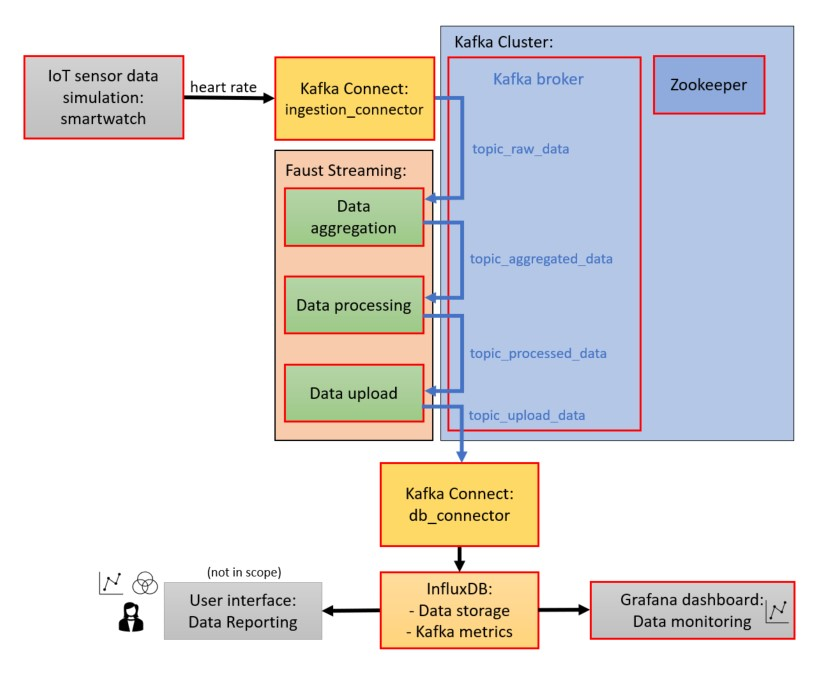
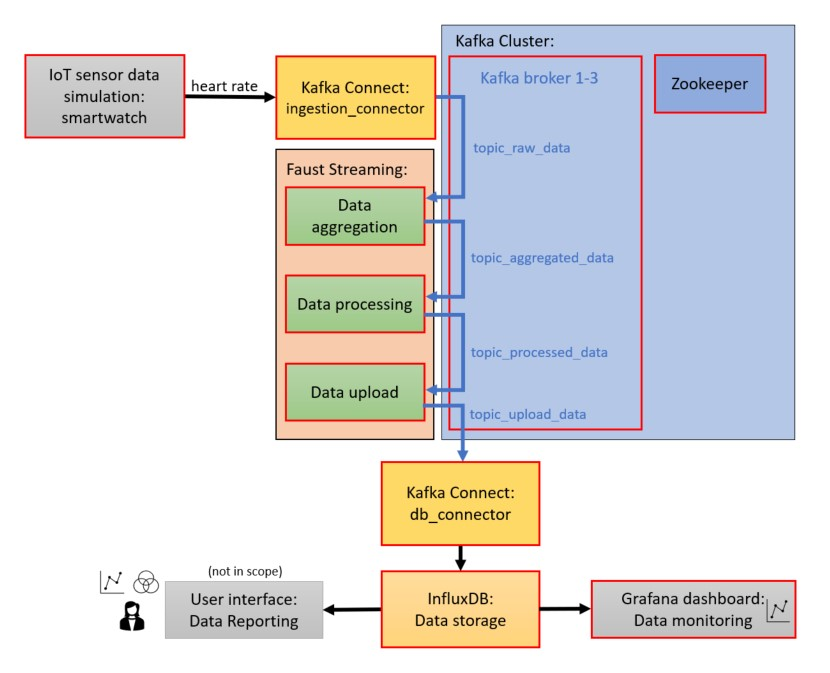
updated Readme and comments

Changed region(s): [[0.0, 0.0312, 0.9639, 0.9673]]

diff --git a/README.md b/README.md
@@ -35,21 +35,21 @@ To get the backend application running on a local machine, the following steps a
    ```
    docker-compose up -d --build
    ```
-    Note: After installing the packages it can take up to 90 seconds until cluster components are finally bootet and synchronised.
+    Note: After installing the packages it can take up to 90 seconds until cluster components are completely bootet and synchronised.
 
 
 # Project Description
 
 - Goals:  
-This project realizes an example backend infrastructure for handling data intensive real time stream processing applications. It was developed considering the main aspects reliability, scalability and maintainability.  
-Reliability and scalability can be achieved through the implementation of replication via three individual Kafka brokers which can balance the load dynamically depending on the data load. The brokers can also substitute each other in case of failures.  
-With the deployment of individual microservices which communicate via defined interfaces a manageable maintainability is achieved. With this restarting single microservices is also possible in case of disturbances.  
+  This project realizes an example backend infrastructure for handling data intensive real time stream processing applications. It was developed considering the main aspects reliability, scalability and maintainability.  
+  Reliability and scalability can be achieved through the implementation of replication via three individual Kafka brokers which can balance the load dynamically depending on the amount of processed data. The brokers can also substitute each other in case of failures.  
+  With the deployment of individual microservices which communicate via defined interfaces maintainability is easily possible. With this restarting single microservices is also possible in case of disturbances.  
 
-  As the infrastructure consists of more components the microservices are implemented as Docker containers which are orchestrated by Docker-Compose centrally to be able to manage and maintain the system.  
+  As the infrastructure consists of more components the microservices are implemented as Docker containers which are orchestrated by Docker-Compose centrally what enables the administrator to manage and maintain the system.  
 
 - Summary:  
 
-  The backend application receives heart rate values by several IoT smartwatch sensors (simulated input data provided by a *.csv file source). After aggregating the input data some processing calculations are done over all known sensor values. After that the sensor information is separated by sensor ID and then uploaded to an InfluxDB database. Uploaded data streams can be monitored by a Grafana dashboard accompanied by some metrics which give an overview of the Kafka cluster performance.  
+  The backend application receives heart rate values by several IoT smartwatch sensors (simulated input data provided by a *.csv file source). After aggregating the input data some processing calculations are done over all known sensor values. After that the sensor information is split by sensor ID and then uploaded to an InfluxDB database separately. Uploaded data streams can be monitored with a Grafana dashboard.  
 
 - Microservices (Kafka cluster components excluded):
   Main functionality:  
@@ -57,25 +57,21 @@ With the deployment of individual microservices which communicate via defined in
   - data_aggregation: fetches raw sensor data and aggregates data to a proper format
   - data_processing: fetches aggregated sensor data and processes data with some calculations (e.g. max/min/mean values for each sensor)
   - data_upload: fetches processed data and uploads data to Influxdb data sink
-  - grafana: monitoring processed IoT sensor data and metrics inside the kafka cluster
-  - influxdb: InfluxDB database to store productive and metrics data
+  - grafana: monitoring processed IoT sensor data by the kafka cluster
+  - influxdb: InfluxDB database to store productive data
 
   Kafka connect components:
   - ingestion_connector: Source Connect cluster (FileSource) to append external data source (csv file) to the kafka cluster
-  - db_connector: Sink Connect cluster (InfluxDB Sink) to append external data sink (InfluxDB) to the kafka cluster for storing productive data of the cluster
-  - metrics_connector: Sink Connect cluster (InfluxDB Sink) to append external data sink (InfluxDB) to the kafka cluster for storing performance metrics of the cluster
   - IoT_sensor_data_simulation_smartwatch: simulates an IoT data source of type smartwatch (is a *.csv file source connector instance inside ingestion_connector cluster)
+  - db_connector: Sink Connect cluster (InfluxDB Sink) to append external data sink (InfluxDB) to the kafka cluster for storing productive data of the cluster
   - kafkaconnect_influxdb_sink_productive: stores productive data after being processed in the kafka cluster (is a sink connector instance inside db_connector cluster)
-  - kafkaconnect_influxdb_sink_metrics: stores metrics data after being processed in the kafka cluster (is a sink connector instance inside metrics_connector cluster)
 
   Initialization and Kafka periphery:
   - init-kafka-topics: defines the topics in the kafka cluster 
   - init-schema-registry: initializes schemas of kafka topics
-  - init-databases: initializes InfluxDB databases
+  - init-databases: initializes InfluxDB database
   - init-kafkaconnect_influxdb_sink_productive: initializes sink connector instance inside db_connector cluster for productive data
-  - init-kafkaconnect_influxdb_sink_metrics: initializes sink connector instance inside db_connector cluster for metrics data
   - control-center: Frontend hub to manage and check health and functionality of the kafka cluster
-
 
   More details about the microservices' functionality can be found in comments inside the code files.
 
@@ -126,9 +122,9 @@ Tree view created with [tree library](https://linux.die.net/man/1/tree).
 # External Interfaces
 
 - Grafana: `localhost:3000`  
-  Initial login: user = admin, password = admin (credentials are already preset and do not need to be changed)
-  Select one of the following dashboards for visualization:
-  - Smartwatch Heartrate - Dashboard
+  Initial login: user = admin, password = admin (credentials are already preset and do not need to be changed)  
+  
+  Smartwatch Heartrate - Dashboard
     - the number of smartwatch sensors monitored by the backend infrastructure
     - max. heart rate value over all sensors
     - min. heart rate value over all sensors
@@ -136,11 +132,8 @@ Tree view created with [tree library](https://linux.die.net/man/1/tree).
     - timestamp of last recorded data sample
     - all recorded values and meta data of each monitored smartwatch sensor
 
-  - Smartwatch Metrics - Dashboard
-    - number of uploaded sensor values to database per minute
-    - latency of the sensor values from the data simulation to database upload
-
 - Control-Center: `localhost:9021`  
+
   Confluent Platform's control center provides the possibility to check information and data inside the Kafka cluster, e.g.:
     - health of the brokers
     - existing topics
@@ -161,11 +154,11 @@ Tree view created with [tree library](https://linux.die.net/man/1/tree).
 - Implementation does not fulfill all possible requirements regarding:
   - error handling along all microservices
   - security configurations regarding the container communication
-  - deep analysis possibility via productive data and metrics dashboard
+  - deep analysis possibility via metrics data
 
 - Sensor simulation contains fix number of IoT sensors (10) and value ranges to test basic functionality. This does not represent a real smartwatch sensor range.
 - Overall performance of the infrastructure can still be improved, e.g. duration of startup
-- There may errors occure during container startup and synchronisation process. In this case some of the containers ned to be restarted.
+- There may errors occure during container startup and synchronisation process if startup of containers last too long. In this case some of the containers ned to be restarted.
 
 - Licences: 
   - Control Center: Confluent Enterprise License
